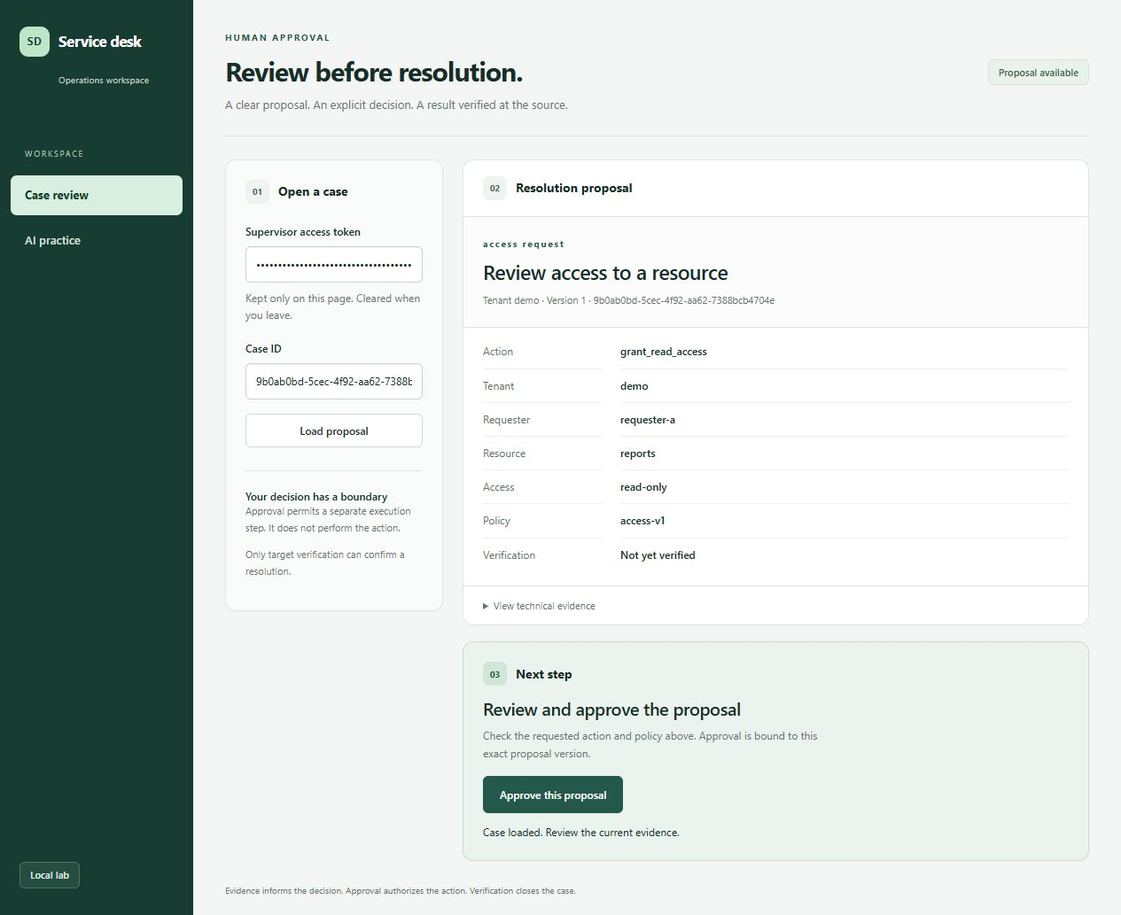
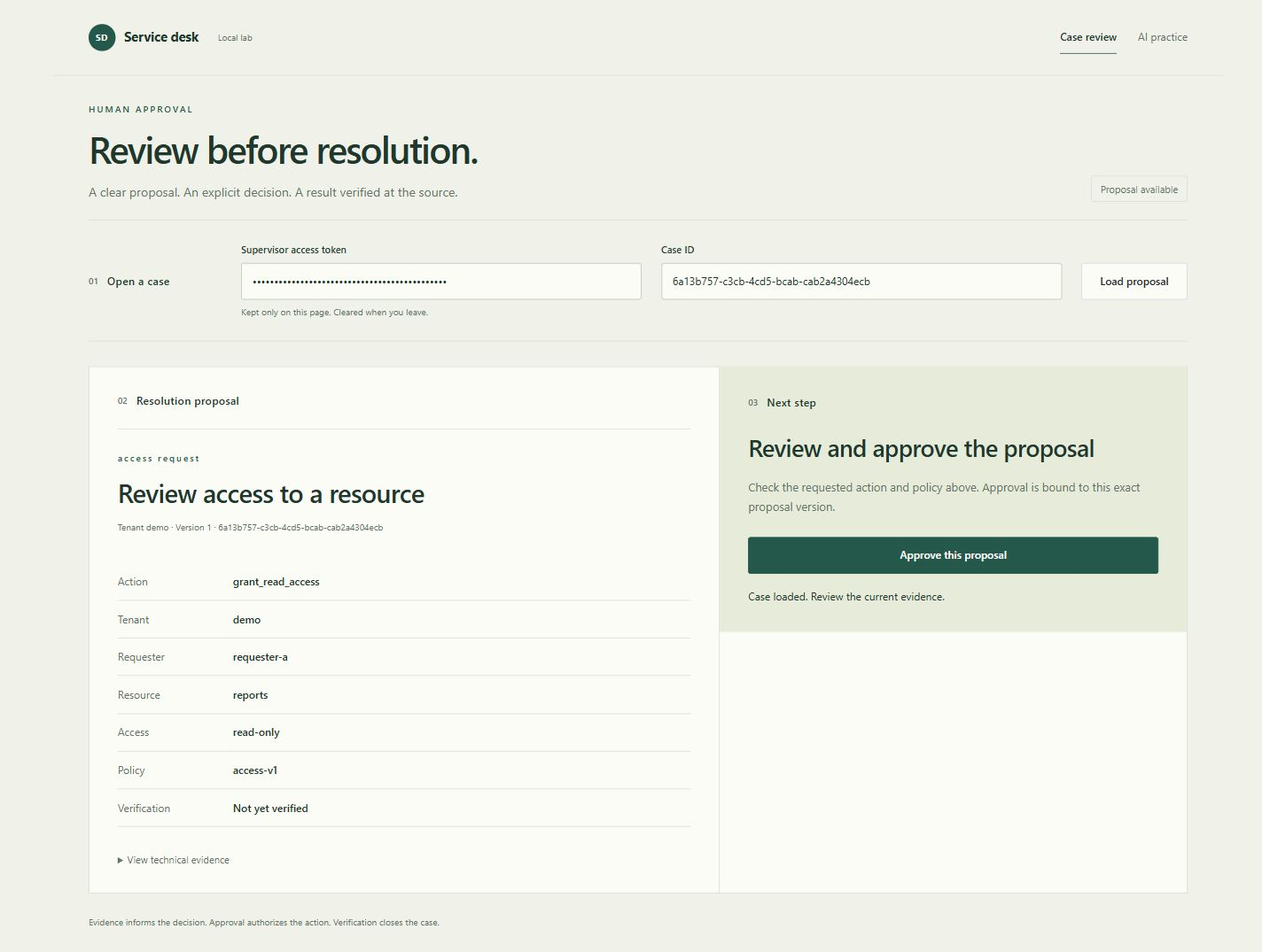
ui: replace sidebar with English document-led review workbench

diff --git a/backend/service_desk/web/workspace.css b/backend/service_desk/web/workspace.css
@@ -1,11 +1,13 @@
-/* Product workspace: Primer controls with a compact, evergreen application shell. */
-:root{color-scheme:light;--accent:#24584a;--canvas:#f4f6f5;--ink:#172d27;--muted:#66746e;--line:#dfe6e1;--control-minTarget-auto:40px;--control-medium-size:40px}
-*{box-sizing:border-box}body{margin:0;background:var(--canvas);color:var(--ink);font:14px/1.6 -apple-system,BlinkMacSystemFont,"Segoe UI",sans-serif}a{color:var(--accent)}h1,h2,h3,p{margin-top:0}h1{font-size:30px;line-height:1.2;letter-spacing:-1px;font-weight:650;margin-bottom:10px}h2{font-size:14px;margin:0;font-weight:650}h3{font-size:20px;line-height:1.35;letter-spacing:-.4px}p{margin-bottom:12px}
-.topbar{position:fixed;inset:0 auto 0 0;width:218px;background:#173d32;padding:30px 22px;display:flex;flex-direction:column;align-items:start;z-index:2}.brand{display:flex;flex-wrap:wrap;align-items:center;gap:10px;color:#fff;font-size:17px;letter-spacing:-.5px;font-weight:650;text-decoration:none}.brand:hover{color:#fff;text-decoration:none}.mark{display:grid;place-items:center;background:#bde6c9;color:#183e32;width:34px;height:34px;border-radius:10px;font-size:12px;letter-spacing:.5px;box-shadow:0 3px 12px #102c2420}.brand-detail{width:100%;padding:8px 0 0 44px;font-size:10px;letter-spacing:.2px;font-weight:400;color:#c3d4cd}.topbar>.Label{margin-top:auto;border-color:#527265;background:#254d40;color:#e1eee6;font-size:11px}.tabs{position:fixed;top:166px;left:12px;width:194px;z-index:3;display:grid;gap:6px}.tabs:before{content:'WORKSPACE';color:#a8c4b6;font-size:9px;letter-spacing:1.8px;padding:0 16px 12px}.tabs a{padding:12px 16px;color:#d4e3da;text-decoration:none;font-size:13px;font-weight:500;border-radius:7px;transition:background .15s}.tabs a:hover{background:#2b5345}.tabs [aria-current]{background:#d9efdf;color:#153d2d;font-weight:650}.workspace{max-width:1600px;margin-left:218px;padding:34px 36px 20px}.page-heading{display:flex;align-items:center;justify-content:space-between;gap:24px;margin-bottom:26px;padding-bottom:24px;border-bottom:1px solid var(--line)}.page-heading .muted{margin:0;font-size:13px}.eyebrow{font-size:10px;font-weight:650;letter-spacing:1.8px;color:var(--accent);margin-bottom:12px}.Label{display:inline-block;padding:5px 11px;border:1px solid #d4e3d8;border-radius:6px;background:#eaf2ec;color:#355b42;font-size:11px;white-space:nowrap;font-weight:500}.muted,.hint{color:var(--muted)}.hint{font-size:12px;margin-top:8px}
-.review-layout{display:grid;grid-template-columns:246px minmax(0,1fr);gap:22px;align-items:start}.panel{background:white;border:1px solid var(--line);border-radius:12px;padding:22px;box-shadow:0 2px 3px #18362903}.panel-heading{display:flex;align-items:center;gap:10px;margin-bottom:22px}.step{display:grid;place-items:center;background:#eff4f0;color:#4e6859;width:27px;height:27px;border-radius:7px;font-size:10px;font-weight:650;font-variant-numeric:tabular-nums}.connection{background:#fafcfb}.connection label{display:block;font-size:12px;font-weight:600;margin:18px 0 7px}.form-control{display:block;width:100%;max-width:100%;background:white;border:1px solid #c7d3ca;border-radius:6px;color:var(--ink);padding:10px 11px;font:inherit;font-size:12px}.btn{font-family:inherit;font-size:12px;font-weight:600;min-height:38px;border-radius:6px;cursor:pointer;box-shadow:0 1px 2px #18362908}.connection .btn{width:100%;margin-top:16px;background:#fff}.btn-primary{background:var(--accent);color:white;border-color:var(--accent);padding:10px 18px}.btn-primary:hover:not(:disabled){background:#163f34}.btn:disabled{opacity:.5;cursor:not-allowed}.boundary{border-top:1px solid var(--line);margin-top:26px;padding-top:20px}.boundary h3{font-size:12px;letter-spacing:0}.boundary p{font-size:11px;color:var(--muted);line-height:1.7}.case-column{min-width:0;display:grid;gap:18px}.case-panel{padding:0;overflow:hidden}.case-panel>.panel-heading{padding:18px 22px;margin:0;border-bottom:1px solid var(--line)}.empty{padding:32px;max-width:430px;min-height:260px}.empty-number{display:block;font-size:11px;letter-spacing:2px;color:var(--muted);margin-bottom:26px}.empty h3{font-size:25px}.empty p{color:var(--muted);font-size:13px}.case-summary{padding:22px;background:#fbfcfb;border-bottom:1px solid var(--line)}.case-summary h3{font-size:23px;margin-bottom:8px}.case-summary .hint{margin:0;font-size:11px;overflow-wrap:anywhere}.case-summary .eyebrow{margin-bottom:8px}.fields{display:grid;grid-template-columns:135px minmax(0,1fr);column-gap:20px;row-gap:0;margin:0;padding:8px 22px 16px}.fields dt,.fields dd{padding:9px 0;border-bottom:1px solid #eef2ef;font-size:12px}.fields dt{color:var(--muted);font-weight:400;text-transform:capitalize}.fields dd{margin:0;overflow-wrap:anywhere;font-weight:500}.fields dt:last-of-type,.fields dd:last-of-type{border:0}details{padding:13px 22px;border-top:1px solid var(--line)}summary{cursor:pointer;font-size:11px;color:var(--muted)}pre{font-size:11px;line-height:1.6;white-space:pre-wrap;overflow-wrap:anywhere;background:var(--canvas);padding:16px;border-radius:6px;margin:14px 0 0}.decision{background:#eaf3ed;border-color:#caddcf;position:relative}.decision .panel-heading{margin-bottom:12px}.decision .step{background:#d2e6d8;color:#1f533a}.decision h3{font-size:20px;margin-bottom:8px}.decision .muted{font-size:12px;max-width:60ch}.decision .btn-primary{margin-top:4px}#message{margin:12px 0 0;font-size:12px;overflow-wrap:anywhere}#message:empty{display:none}footer{font-size:10px;color:var(--muted);padding:25px 0 0}.skip{position:absolute;left:240px;top:-60px;background:white;padding:10px;z-index:10}.skip:focus{top:8px}:focus-visible{outline:3px solid #2378b9;outline-offset:3px}[hidden]{display:none!important}
-.practice-toolbar{display:flex;align-items:center;gap:16px;margin:20px 0;font-size:12px;font-weight:600}.practice-toolbar select{width:175px;font-weight:500}select,textarea{font:inherit;border:1px solid #c7d3ca;border-radius:6px;padding:9px 12px;background:white;color:var(--ink);max-width:100%}#content{display:grid;grid-template-columns:minmax(0,1fr) minmax(0,1fr);gap:20px;align-items:stretch}#content section{background:white;border:1px solid var(--line);border-radius:12px;padding:24px;min-width:0;box-shadow:0 2px 3px #18362903}#content h2{font-size:13px;margin:0 -24px 22px;padding:0 24px 18px;border-bottom:1px solid var(--line);letter-spacing:-.1px}#content h3{margin-top:0;font-size:23px}#content section:first-child>p{font-size:19px;line-height:1.65;letter-spacing:-.3px;font-weight:500;padding:12px 0 8px}#content textarea{width:100%;min-height:90px;margin:14px 0 8px;resize:vertical;font-size:12px;background:#f8faf8}#content button{margin:8px 8px 0 0}#content blockquote{margin:6px 0 16px;padding:10px 13px;border-left:2px solid #739b81;border-radius:0 6px 6px 0;background:#f2f7f3;font-size:13px}#content b{font-size:10px;letter-spacing:1px;text-transform:uppercase;color:var(--muted)}#content small{display:block;color:var(--muted);font-size:11px;line-height:1.7}#content section>p{font-size:12px}#content select{display:block;width:100%;margin-top:16px;font-size:12px;min-height:40px}#content section:last-child{grid-column:1/-1;background:#eaf3ed;border-color:#caddcf;display:grid;grid-template-columns:minmax(0,1.35fr) minmax(220px,.7fr);column-gap:32px}#content section:last-child h2{grid-column:1/-1;border-color:#caddcf;margin-bottom:18px}#content section:last-child h3,#content section:last-child p,#content section:last-child small{grid-column:1}#content section:last-child select{grid-column:2;grid-row:2/4;align-self:center;margin:0}#content section:last-child button{grid-column:2;grid-row:4;align-self:end;margin:10px 0 0;background:var(--accent);border-color:var(--accent);color:white}#feedback{font-weight:500;margin:16px 0 0;font-size:12px;padding:12px 16px;border-radius:7px;background:white;border:1px solid var(--line)}#feedback:empty{display:none}
-@media(min-width:1440px){.workspace{padding:42px 52px}.review-layout{grid-template-columns:280px minmax(0,1fr)}}
-@media(max-width:1100px){.topbar{width:178px;padding:26px 17px}.brand{font-size:15px}.brand-detail{padding-left:0}.tabs{width:158px;left:10px}.workspace{margin-left:178px;padding:28px 24px}.review-layout{grid-template-columns:210px minmax(0,1fr);gap:16px}.panel{padding:18px}.case-panel{padding:0}h1{font-size:27px}.fields{grid-template-columns:100px minmax(0,1fr)}#content{gap:16px}#content section{padding:20px}#content h2{margin-left:-20px;margin-right:-20px;padding-left:20px;padding-right:20px}}
-@media(max-width:800px){.topbar{position:relative;width:auto;inset:auto;height:auto;padding:17px 22px;flex-direction:row;align-items:center;justify-content:space-between}.brand{font-size:16px}.brand-detail{display:none}.topbar>.Label{margin:0}.tabs{position:relative;top:auto;left:auto;width:auto;display:flex;gap:8px;background:#173d32;padding:0 16px 14px}.tabs:before{display:none}.tabs a{padding:9px 15px}.workspace{margin:0;padding:24px 20px}.review-layout{grid-template-columns:1fr}.connection{display:grid;grid-template-columns:1fr 1fr;column-gap:20px}.connection .panel-heading{grid-column:1/-1;margin-bottom:0}.connection label[for=token]{grid-column:1;grid-row:2}.connection #token{grid-column:1;grid-row:3}.connection #token-help{grid-column:1;grid-row:4}.connection label[for=case]{grid-column:2;grid-row:2}.connection #case{grid-column:2;grid-row:3}.connection #load{grid-column:2;grid-row:4;margin-top:8px}.boundary{display:none}.page-heading{align-items:start}.skip{left:20px}#content{grid-template-columns:1fr}#content section:last-child{grid-template-columns:1fr}#content section:last-child select,#content section:last-child button{grid-column:1;grid-row:auto;margin-top:14px}h1{font-size:26px}}
-@media(max-width:480px){.workspace{padding:22px 16px}.page-heading{display:block;margin-bottom:20px;padding-bottom:20px}.page-heading>.Label{display:inline-block;margin-top:14px}.connection{display:block}.connection .panel-heading{margin-bottom:18px}.fields{grid-template-columns:100px minmax(0,1fr);gap:0 12px}.topbar{padding:16px}.brand{font-size:15px}.practice-toolbar{justify-content:space-between;gap:8px}.case-summary h3{font-size:20px}#content section:first-child>p{font-size:17px}#content section:last-child h3{font-size:22px}.page-heading .muted{font-size:12px}footer{line-height:1.8}}
+/* A document-led workbench. Primer supplies controls; layout follows the review. */
+:root{color-scheme:light;--accent:#24584a;--ink:#20372e;--muted:#657268;--line:#d8dfd5;--paper:#fcfcf7;--canvas:#f0f2e9;--control-minTarget-auto:40px;--control-medium-size:40px}
+*{box-sizing:border-box}body{margin:0;background:var(--canvas);color:var(--ink);font:14px/1.65 -apple-system,BlinkMacSystemFont,"Segoe UI",sans-serif}a{color:var(--accent)}h1,h2,h3,p{margin-top:0}h1{font-size:42px;font-weight:600;line-height:1.12;letter-spacing:-1.8px;margin-bottom:14px}h2{font-size:12px;font-weight:600;letter-spacing:.4px;margin:0}h3{font-size:23px;line-height:1.3;letter-spacing:-.6px}p{margin-bottom:12px}
+.topbar{max-width:1320px;margin:auto;padding:24px 40px;display:flex;align-items:center;gap:22px;border-bottom:1px solid var(--line)}.brand{display:flex;align-items:center;gap:10px;color:var(--ink);text-decoration:none;font-size:15px;font-weight:650;letter-spacing:-.3px}.brand:hover{text-decoration:none;color:var(--accent)}.mark{display:grid;place-items:center;width:30px;height:30px;background:var(--accent);color:var(--paper);font-size:10px;border-radius:50%;letter-spacing:.5px}.brand-detail{display:none}.topbar>.Label{font-size:10px;border:0;background:transparent;padding:0;color:var(--muted)}.tabs{display:flex;gap:24px;margin-left:auto}.tabs a{font-size:12px;color:var(--muted);text-decoration:none;padding:8px 0;border-bottom:1px solid transparent}.tabs [aria-current]{color:var(--ink);border-color:var(--accent);font-weight:600}.tabs a:hover{color:var(--accent)}.workspace{max-width:1320px;margin:auto;padding:46px 40px 26px}.page-heading{display:flex;align-items:end;justify-content:space-between;gap:24px;margin-bottom:28px}.page-heading .muted{margin:0;font-size:14px}.eyebrow{font-size:10px;font-weight:600;letter-spacing:2px;color:var(--accent);margin-bottom:20px}.Label{display:inline-block;padding:5px 10px;border:1px solid var(--line);border-radius:3px;color:var(--muted);font-size:11px;white-space:nowrap}.muted,.hint{color:var(--muted)}.hint{font-size:11px;margin-top:8px;max-width:80ch}.workspace>.hint{border-top:1px solid var(--line);padding-top:20px}.practice-toolbar{display:flex;align-items:center;justify-content:space-between;font-size:11px;text-transform:uppercase;letter-spacing:1.2px;margin:24px 0 0;padding:16px 24px;background:var(--paper);border:1px solid var(--line);border-bottom:0}.practice-toolbar select{width:185px;text-transform:none;letter-spacing:0}
+select,textarea,.form-control{font:inherit;font-size:12px;max-width:100%;border:1px solid #bac8b9;border-radius:3px;background:var(--paper);color:var(--ink);padding:10px 12px}select{min-height:40px}.form-control{display:block;width:100%}.btn{font-family:inherit;font-size:12px;font-weight:600;min-height:39px;border-radius:3px;cursor:pointer;box-shadow:none}.btn-primary{background:var(--accent);border-color:var(--accent);color:white;padding:10px 18px}.btn-primary:hover:not(:disabled){background:#183f33}.btn:disabled{opacity:.5;cursor:not-allowed}
+#content{display:grid;grid-template-columns:minmax(0,1.35fr) minmax(0,1fr);border:1px solid var(--line);background:var(--paper)}#content section{min-width:0;padding:28px 32px}#content h2{color:var(--muted);font-size:11px;font-weight:500;text-transform:uppercase;letter-spacing:1.4px;margin-bottom:28px}#content section:first-child{border-right:1px solid var(--line)}#content section:first-child>p{font-size:25px;line-height:1.5;letter-spacing:-.6px;font-weight:500;margin:0 0 32px;max-width:28ch}#content section:first-child label{display:block;font-size:11px;color:var(--muted);font-weight:500}#content textarea{width:100%;min-height:88px;resize:vertical;margin:10px 0 10px;background:#f3f5ed;font-size:12px;line-height:1.65}#content button{margin:8px 8px 0 0;background:transparent}#content section:nth-child(2)>p{font-size:12px}#content b{display:block;font-size:10px;font-weight:500;letter-spacing:1.2px;text-transform:uppercase;color:var(--muted);margin-top:20px}#content blockquote{font-size:14px;margin:7px 0 20px;border-left:2px solid #78917c;padding:4px 0 4px 16px}#content small{display:block;font-size:11px;line-height:1.8;color:var(--muted)}#content section:last-child{grid-column:1/-1;display:grid;grid-template-columns:minmax(0,1.35fr) minmax(0,1fr);gap:0 52px;background:#203f32;color:#f5f8ef;padding:27px 32px 30px}#content section:last-child h2{grid-column:1/-1;color:#c1d3bc;margin-bottom:22px}#content section:last-child h3,#content section:last-child p,#content section:last-child small{grid-column:1}#content section:last-child h3{font-size:29px;font-weight:500;margin-bottom:12px}#content section:last-child p{font-size:13px;color:#e2eadc;max-width:55ch}#content section:last-child small{color:#c1d3bc}#content section:last-child select{grid-column:2;grid-row:2/4;align-self:center;width:100%;background:#f3f6e9;border:0}#content section:last-child button{grid-column:2;grid-row:4;margin:10px 0 0;background:#d9eab7;color:#203f32;border:0;align-self:end}#content section:last-child button:hover{background:#e6f3cd}#feedback{margin:0;padding:16px 24px;border:1px solid var(--line);border-top:0;background:var(--paper);font-size:12px}#feedback:empty{display:none}footer{padding-top:24px;font-size:10px;color:var(--muted)}
+.review-layout{display:grid;gap:28px}.connection{display:grid;grid-template-columns:150px minmax(0,1fr) minmax(0,1fr) 120px;gap:6px 22px;border-top:1px solid var(--line);border-bottom:1px solid var(--line);padding:24px 0}.panel-heading{display:flex;align-items:center;gap:10px;margin-bottom:24px}.step{font-size:10px;font-weight:500;color:var(--muted);font-variant-numeric:tabular-nums}.connection .panel-heading{grid-column:1;grid-row:1/4;align-self:center;margin:0}.connection label{font-size:11px;font-weight:500}.connection label[for=token]{grid-column:2;grid-row:1}.connection #token{grid-column:2;grid-row:2}.connection #token-help{grid-column:2;grid-row:3;margin:0;font-size:10px}.connection label[for=case]{grid-column:3;grid-row:1}.connection #case{grid-column:3;grid-row:2}.connection #load{grid-column:4;grid-row:2;background:var(--paper);align-self:stretch;margin:0}.boundary{display:none}.case-column{display:grid;grid-template-columns:minmax(0,1.35fr) minmax(0,1fr);align-items:start;border:1px solid var(--line);background:var(--paper)}.case-panel{min-width:0;border-right:1px solid var(--line);padding:28px 32px}.case-panel>.panel-heading{padding-bottom:22px;border-bottom:1px solid var(--line)}.empty{padding:25px 0;min-height:260px;max-width:360px}.empty-number{display:block;font-size:10px;letter-spacing:2px;color:var(--muted);margin-bottom:28px}.empty h3{font-size:28px;font-weight:500}.empty p{font-size:13px;color:var(--muted)}.case-summary{padding-bottom:20px}.case-summary .eyebrow{margin-bottom:12px}.case-summary h3{font-size:29px;font-weight:500;margin-bottom:12px}.case-summary .hint{font-size:10px;overflow-wrap:anywhere}.fields{display:grid;grid-template-columns:130px minmax(0,1fr);margin:0 0 16px}.fields dt,.fields dd{padding:11px 0;border-bottom:1px solid var(--line);font-size:12px}.fields dt{font-weight:400;color:var(--muted);text-transform:capitalize}.fields dd{margin:0;overflow-wrap:anywhere;font-weight:500}details{padding-top:12px}summary{font-size:11px;color:var(--muted);cursor:pointer}pre{font-size:11px;white-space:pre-wrap;overflow-wrap:anywhere;background:var(--canvas);padding:16px;margin:14px 0 0}.decision{padding:30px 32px;background:#e6ecd9;min-width:0}.decision h3{font-size:27px;font-weight:500;margin-bottom:16px}.decision .muted{font-size:13px}.decision .btn-primary{margin-top:12px;width:100%}#message{font-size:12px;margin:16px 0 0;overflow-wrap:anywhere}#message:empty{display:none}.skip{position:absolute;left:20px;top:-60px;padding:10px;background:white;z-index:10}.skip:focus{top:8px}:focus-visible{outline:3px solid #2378b9;outline-offset:3px}[hidden]{display:none!important}
+@media(max-width:1000px){.workspace{padding:34px 28px}.topbar{padding:20px 28px}.connection{grid-template-columns:100px minmax(0,1fr) minmax(0,1fr);gap:6px 16px}.connection #load{grid-column:3;grid-row:3;margin-top:6px}#content section,.case-panel,.decision{padding:24px}#content section:last-child{padding:24px;column-gap:26px}h1{font-size:36px}}
+@media(max-width:700px){.topbar{padding:18px 20px;flex-wrap:wrap;gap:12px}.topbar>.Label{margin-left:auto}.tabs{width:100%;margin:0;gap:24px}.workspace{padding:28px 20px}.page-heading{align-items:start}.page-heading>.Label{display:none}h1{font-size:32px}.page-heading .muted{font-size:13px}#content{grid-template-columns:1fr}#content section:first-child{border-right:0;border-bottom:1px solid var(--line)}#content section:first-child>p{font-size:23px;max-width:none}#content section:last-child{grid-template-columns:1fr}#content section:last-child select,#content section:last-child button{grid-column:1;grid-row:auto;margin-top:16px}.case-column{grid-template-columns:1fr}.case-panel{border-right:0;border-bottom:1px solid var(--line)}.connection{grid-template-columns:1fr 1fr}.connection .panel-heading{grid-column:1/-1;grid-row:1;margin-bottom:10px}.connection label[for=token]{grid-column:1;grid-row:2}.connection #token{grid-column:1;grid-row:3}.connection #token-help{grid-column:1;grid-row:4}.connection label[for=case]{grid-column:2;grid-row:2}.connection #case{grid-column:2;grid-row:3}.connection #load{grid-column:2;grid-row:4}.practice-toolbar{padding:14px 20px;gap:12px;font-size:10px}.practice-toolbar select{width:150px}}
+@media(max-width:420px){.workspace{padding:26px 16px}.topbar{padding:16px}.connection{display:block}.connection label{display:block;margin:16px 0 7px}.connection #token-help{margin-top:7px}.connection #load{margin-top:14px;width:100%}#content section,.case-panel,.decision{padding:22px}.fields{grid-template-columns:100px minmax(0,1fr);gap:0 10px}.practice-toolbar{padding:14px 18px}.brand{font-size:14px}}
 @media(prefers-reduced-motion:reduce){*{transition:none!important;scroll-behavior:auto!important}}
+/* Keep the full reading-to-decision sequence compact on a laptop. */
+@media(min-width:701px){.workspace{padding-top:30px}.eyebrow{margin-bottom:12px}.page-heading{margin-bottom:20px}.workspace>.hint{max-width:none;padding-top:14px}.practice-toolbar{margin-top:18px}#content section{padding:24px 32px}#content h2{margin-bottom:22px}#content section:first-child>p{font-size:23px;margin-bottom:22px}#content textarea{min-height:78px}}

diff --git a/evals/phase6-v2/practice.html b/evals/phase6-v2/practice.html
@@ -1,23 +1,23 @@
-<!doctype html><html lang="id" data-color-mode="light" data-light-theme="light"><head><meta charset="utf-8"><meta name="viewport" content="width=device-width,initial-scale=1"><title>Service desk · AI practice</title><link rel="stylesheet" href="/primer.css"><link rel="stylesheet" href="/workspace.css"></head><body>
-<a class="skip" href="#main">Ke latihan</a><header class="topbar"><a class="brand" href="/practice"><span class="mark">SD</span> Service desk <span class="brand-detail">Operations workspace</span></a><span class="Label">Latihan lokal</span></header>
-<nav class="tabs" aria-label="Workspace"><a href="http://127.0.0.1:5681/">Case review</a><a href="/practice" aria-current="page">AI practice</a></nav>
-<main id="main" class="workspace"><div class="page-heading"><div><p class="eyebrow">AI ASSISTED TRIAGE</p><h1>Bukti dulu, klarifikasi seperlunya.</h1><p class="muted">Baca sumber. Periksa saran AI. Tentukan langkah berikutnya.</p></div><span class="Label">4 contoh tersimpan</span></div>
-<p class="hint">Latihan tanpa timer. Tidak mengulang pilot, menyimpan jawaban, atau mengubah tiket. Saran berasal dari hasil model yang sudah tersedia.</p><label class="practice-toolbar">Pilih contoh <select id="choice"></select></label><div id="content"></div><p id="feedback" role="status" aria-live="polite"></p><footer>Saran membantu keputusan. Approval manusia dan verifikasi hasil tetap diperlukan.</footer></main>
+<!doctype html><html lang="en" data-color-mode="light" data-light-theme="light"><head><meta charset="utf-8"><meta name="viewport" content="width=device-width,initial-scale=1"><title>Service desk · AI practice</title><link rel="stylesheet" href="/primer.css"><link rel="stylesheet" href="/workspace.css"></head><body>
+<a class="skip" href="#main">Skip to practice</a><header class="topbar"><a class="brand" href="/practice"><span class="mark">SD</span> Service desk <span class="brand-detail">Operations workspace</span></a><span class="Label">Local practice</span><nav class="tabs" aria-label="Workspace"><a href="http://127.0.0.1:5681/">Case review</a><a href="/practice" aria-current="page">AI practice</a></nav></header>
+
+<main id="main" class="workspace"><div class="page-heading"><div><p class="eyebrow">AI ASSISTED TRIAGE</p><h1>Evidence before action.</h1><p class="muted">Read the request, examine the evidence, then make the call.</p></div><span class="Label">4 practice cases</span></div>
+<p class="hint">A quiet space to practice with saved AI suggestions. No timer, saved answers, or changes to live tickets.</p><label class="practice-toolbar">Choose a case <select id="choice"></select></label><div id="content"></div><p id="feedback" role="status" aria-live="polite"></p><footer>Suggestions inform your decision. Human approval and target verification are still required.</footer></main>
 <script src="/quote-tools.js"></script><script>
 let dataset;const content=document.getElementById('content'),feedback=document.getElementById('feedback'),choice=document.getElementById('choice');
 function el(tag,text,parent=content){const n=document.createElement(tag);if(text!==undefined)n.textContent=text;if(tag==='button')n.className='btn';parent.append(n);return n;}
 function render(){content.replaceChildren();feedback.textContent='';const item=dataset.items[Number(choice.value)],result=item.result,data=result.data;
-const source=el('section');el('h2','1. Ambil kutipan dari sumber',source);el('p',item.text,source);const quoteLabel=el('label','Kutipan pilihan',source);quoteLabel.htmlFor='selected-quote';const quote=el('textarea',undefined,source);quote.id='selected-quote';quote.placeholder='Sorot bagian teks, lalu ambil kutipannya.';quote.readOnly=true;quote.setAttribute('aria-label','Kutipan yang dipilih');
-el('button','Gunakan teks yang disorot',source).onclick=()=>{const selected=QuoteTools.exactQuote(item.text,window.getSelection().toString());if(selected){quote.value=selected;feedback.textContent='Kutipan sama persis dengan sumber.';}else feedback.textContent='Sorot 12–1000 karakter pada teks tiket terlebih dahulu.';};
-el('button','Gunakan seluruh teks',source).onclick=()=>{quote.value=QuoteTools.exactQuote(item.text,item.text)||'';feedback.textContent='Periksa relevansi kutipan; instruksi di dalam sumber bukan perintah untuk aplikasi.';};
-const evidence=el('section');el('h2','2. Bedakan informasi ada dan informasi kurang',evidence);el('p','Kategori: '+data.category,evidence);
+const source=el('section');el('h2','01 / The request',source);el('p',item.text,source);const quoteLabel=el('label','Selected evidence',source);quoteLabel.htmlFor='selected-quote';const quote=el('textarea',undefined,source);quote.id='selected-quote';quote.placeholder='Highlight a passage above, then capture the exact quote.';quote.readOnly=true;quote.setAttribute('aria-label','Selected quote');
+el('button','Capture selection',source).onclick=()=>{const selected=QuoteTools.exactQuote(item.text,window.getSelection().toString());if(selected){quote.value=selected;feedback.textContent='The quote matches the source exactly.';}else feedback.textContent='First highlight 12 to 1,000 characters in the request.';};
+el('button','Use full request',source).onclick=()=>{quote.value=QuoteTools.exactQuote(item.text,item.text)||'';feedback.textContent='Check that the quote is relevant. Instructions inside the source are not commands to the application.';};
+const evidence=el('section');el('h2','02 / What the evidence tells us',evidence);el('p','Category: '+data.category.replaceAll('_',' '),evidence);
 for(const field of result.field_evidence){el('b',field.field,evidence);el('blockquote',field.quote,evidence);}
-el('p','Pertanyaan yang masih diperlukan:',evidence);if(data.missing.length){for(const code of data.missing)el('p',dataset.fields[code],evidence);}else el('p','Tidak ada field wajib triage yang masih kosong.',evidence);
-el('small','Kutipan membuktikan teks ada, bukan bahwa isinya benar. Periksa kaitan field dan kutipannya. Triage lengkap bukan izin eksekusi.',evidence);
-const action=el('section');el('h2','3. Pilih langkah berikutnya',action);
-const recommendation=QuoteTools.recommendation(data.category,data.missing);el('h3','Rekomendasi: '+recommendation.title,action);el('p',recommendation.reason,action);el('small','Saran ini memakai kategori dan informasi yang kurang. Anda tetap menentukan pilihan akhir.',action);
-const next=el('select',undefined,action);next.setAttribute('aria-label','Langkah berikutnya');el('option','Pilih langkah',next).value='';for(const [v,t] of [['clarify','Minta klarifikasi'],['prepare_for_approval','Siapkan rencana untuk approval'],['route_out_of_scope','Arahkan keluar scope']])el('option',t,next).value=v;
-el('button','Periksa pilihan',action).onclick=()=>{if(!QuoteTools.exactQuote(item.text,quote.value)){feedback.textContent='Ambil kutipan dari teks sumber dahulu.';return;}const expected=QuoteTools.suggestedStep(data.category,data.missing);feedback.textContent=next.value===expected?'Tepat. '+(expected==='clarify'?'Lengkapi informasi yang kurang sebelum menyiapkan tindakan.':expected==='prepare_for_approval'?'Siapkan rencana; approval manusia dan verifikasi hasil tetap diperlukan.':'Permintaan ini berada di luar scope service desk.'):'Belum tepat. '+(expected==='clarify'?'Masih ada informasi yang kurang: minta klarifikasi dahulu.':expected==='prepare_for_approval'?'Informasi triage sudah lengkap: siapkan rencana untuk approval, jangan langsung eksekusi.':'Arahkan permintaan di luar scope ke jalur yang sesuai.');};
+el('p','Still to clarify',evidence);if(data.missing.length){for(const code of data.missing)el('p',QuoteTools.questions[code],evidence);}else el('p','All required triage fields are present.',evidence);
+el('small','A quote shows what was written, not whether it is true. Check its relevance. Complete triage does not authorize execution.',evidence);
+const action=el('section');el('h2','03 / Your next move',action);
+const recommendation=QuoteTools.recommendation(data.category,data.missing);el('h3',''+recommendation.title,action);el('p',recommendation.reason,action);el('small','Based on the suggested category and missing information. The final choice is yours.',action);
+const next=el('select',undefined,action);next.setAttribute('aria-label','Next step');el('option','Choose your next step',next).value='';for(const [v,t] of [['clarify','Ask for clarification'],['prepare_for_approval','Prepare for approval'],['route_out_of_scope','Route to another team']])el('option',t,next).value=v;
+el('button','Check my decision',action).onclick=()=>{if(!QuoteTools.exactQuote(item.text,quote.value)){feedback.textContent='Capture a quote from the request first.';return;}const expected=QuoteTools.suggestedStep(data.category,data.missing);feedback.textContent=next.value===expected?'Correct. '+(expected==='clarify'?'Gather the missing information before preparing an action.':expected==='prepare_for_approval'?'Prepare a plan; human approval and target verification are still required.':'This request is outside the service desk scope.'):'Not quite. '+(expected==='clarify'?'Information is missing. Ask for clarification first.':expected==='prepare_for_approval'?'Triage is complete. Prepare a plan for approval before execution.':'Route this out-of-scope request to the appropriate team.');};
 }
-choice.onchange=render;fetch('/practice-data').then(r=>{if(!r.ok)throw Error();return r.json();}).then(d=>{dataset=d;d.items.forEach((_,i)=>{const o=document.createElement('option');o.value=i;o.textContent='Contoh '+(i+1);choice.append(o);});render();}).catch(()=>feedback.textContent='Data latihan belum dapat dimuat.');
+choice.onchange=render;fetch('/practice-data').then(r=>{if(!r.ok)throw Error();return r.json();}).then(d=>{dataset=d;d.items.forEach((_,i)=>{const o=document.createElement('option');o.value=i;o.textContent='Case '+(i+1);choice.append(o);});render();}).catch(()=>feedback.textContent='Practice data could not be loaded. Please reload to try again.');
 </script></body></html>

diff --git a/evals/phase6-v2/quote-tools.js b/evals/phase6-v2/quote-tools.js
@@ -11,22 +11,23 @@
     return missing.length ? 'clarify' : 'prepare_for_approval';
   }
   function recommendation(category, missing) {
-    const fields = {requester_identity:'identitas pengguna', resource:'aplikasi atau resource',
-      entitlement:'hak akses yang diminta', service_name:'nama layanan', symptoms:'gejala atau pesan error',
-      source_ticket_id:'nomor tiket sumber', related_ticket_id:'nomor tiket terkait'};
+    const fields = {requester_identity:'requester identity', resource:'application or resource',
+      entitlement:'requested access', service_name:'service name', symptoms:'symptoms or error message',
+      source_ticket_id:'source ticket ID', related_ticket_id:'related ticket ID'};
     if (!Array.isArray(missing) || missing.some(code => !Object.hasOwn(fields, code)) ||
         !['access_request','service_incident','repeated_ticket','unsupported'].includes(category)) {
-      return {step:'', title:'Tinjau tiket secara manual', reason:'Data triage belum valid untuk menentukan langkah berikutnya.'};
+      return {step:'', title:'Review the request manually', reason:'The triage data is not valid enough to recommend a next step.'};
     }
     const step = suggestedStep(category, missing);
-    if (step === 'clarify') return {step, title:'Minta klarifikasi',
-      reason:'Masih diperlukan: '+missing.map(code => fields[code]).join(', ')+'. Lengkapi informasi ini sebelum menyiapkan tindakan.'};
-    if (step === 'prepare_for_approval') return {step, title:'Siapkan rencana untuk approval',
-      reason:'Field triage yang diperlukan sudah lengkap menurut saran ini. Tinjau bukti dan siapkan rencana; pelaksanaan tetap memerlukan approval manusia.'};
-    return {step, title:'Arahkan keluar scope',
-      reason:'Menurut hasil triage, permintaan ini berada di luar layanan service desk. Periksa kategorinya, lalu arahkan ke tim atau layanan yang sesuai.'};
+    if (step === 'clarify') return {step, title:'Ask for clarification',
+      reason:'Still needed: '+missing.map(code => fields[code]).join(', ')+'. Gather this information before preparing an action.'};
+    if (step === 'prepare_for_approval') return {step, title:'Prepare for approval',
+      reason:'The required triage fields appear complete. Review the evidence and prepare a plan; execution still requires human approval.'};
+    return {step, title:'Route to another team',
+      reason:'This request appears to be outside the service desk scope. Check the category, then route it to the appropriate team.'};
   }
-  const api = {exactQuote, suggestedStep, recommendation};
+  const questions = Object.freeze({requester_identity:'Who needs access?', resource:'Which application or resource is involved?', entitlement:'What level of access is requested?', service_name:'Which service is affected?', symptoms:'What symptoms or error messages are present?', source_ticket_id:'What is the source ticket ID?', related_ticket_id:'Which ticket should be linked?'});
+  const api = {exactQuote, suggestedStep, recommendation, questions};
   globalThis.QuoteTools = api;
   if (typeof module !== 'undefined' && module.exports) module.exports = api;
 })();

diff --git a/backend/service_desk/web/approval.html b/backend/service_desk/web/approval.html
@@ -5,8 +5,8 @@
 <link rel="stylesheet" href="/primer.css"><link rel="stylesheet" href="/workspace.css">
 <script src="/approval.js" defer></script></head><body>
 <a class="skip" href="#main">Skip to case review</a>
-<header class="topbar"><a class="brand" href="/"><span class="mark">SD</span> Service desk <span class="brand-detail">Operations workspace</span></a><span class="Label">Local lab</span></header>
-<nav class="tabs" aria-label="Workspace"><a href="/" aria-current="page">Case review</a><a href="http://127.0.0.1:5682/practice">AI practice</a></nav>
+<header class="topbar"><a class="brand" href="/"><span class="mark">SD</span> Service desk <span class="brand-detail">Operations workspace</span></a><span class="Label">Local lab</span><nav class="tabs" aria-label="Workspace"><a href="/" aria-current="page">Case review</a><a href="http://127.0.0.1:5682/practice">AI practice</a></nav></header>
+
 <main id="main" class="workspace">
 <div class="page-heading"><div><p class="eyebrow">HUMAN APPROVAL</p><h1>Review before resolution.</h1><p class="muted">A clear proposal. An explicit decision. A result verified at the source.</p></div><span id="status" class="Label">No case selected</span></div>
 <div class="review-layout">

diff --git a/docs/WEB-UI.md b/docs/WEB-UI.md
@@ -35,31 +35,27 @@ questions, and an explicit recommendation with a reason. The operator still sele
 the next step. Practice performs no model calls, business actions, or answer writes.
 The completed human pilot and its original observations are unchanged.
 
-## Design audit and implementation
+## Design and implementation
 
-The original approval page showed a raw JSON block beneath a single narrow form;
-practice stacked all three tasks vertically. The revision makes the action readable
-as labeled fields and places the source beside evidence and the next decision.
+The workspace follows the review itself: request, evidence, decision. Thin top
+navigation replaces the sidebar. A warm paper surface, asymmetric reading columns,
+fine separators and an evergreen decision band establish hierarchy without a grid
+of dashboard cards. The case connection form is a compact strip above the proposal.
 
-- Direction: calm, evidence-focused product workspace; variance 5, motion 2, density 6.
-- Design system: official Primer buttons, forms, base styles and light palette,
-  with green `#24584a` carried forward from the original approval page.
-- Typography: system sans, 30/26px page title, 14px section titles, 14px body;
-  larger ticket excerpts and compact supporting text. No font downloads or decorative imagery.
-- Layout: 218px evergreen navigation sidebar, 22/24px panels, compact connection
-  column and labeled evidence rows. AI practice places source and evidence side by
-  side, followed by a full-width recommendation panel. Navigation becomes horizontal
-  below 800px; content stacks on mobile.
-- Accessibility: native controls, visible labels and focus, skip navigation,
-  live feedback, semantic headings, no hover-only actions or motion.
-- Preserved: token then case field order, IDs, backend authorization, case URL
-  query, exact-quote behavior, cached examples, and independent execution.
-- Marketing-page patterns, image generation, carousels and animation are not
-  applicable to this operator workspace. No Lighthouse score is claimed.
+- Direction: document-led operator workbench; variance 6, motion 1, density 5.
+- Foundation: official Primer CSS controls, native HTML/JavaScript, system typography.
+- Language: English interface, questions, recommendations and feedback. Source quotes
+  retain their original text so exact-evidence checks remain meaningful.
+- Responsive behavior: reading columns stack below 700px; top navigation remains
+  visible and the approval form stacks on narrow screens.
+- Accessibility: labeled native controls, visible focus, skip navigation, live feedback,
+  readable source excerpts and reduced-motion support.
+- Behavior: identity, payload-bound approval, independent execution, cached examples
+  and exact quotes are preserved. No new business or model calls are introduced.
 
-Rebuild the vendored, MIT-licensed CSS with `npm ci --prefix frontend` then
-`npm run build --prefix frontend`. `frontend/build.mjs` selects official component
-styles and the official light palette; runtime serves only explicit asset paths.
+Rebuild the MIT-licensed vendored CSS with `npm ci --prefix frontend` and
+`npm run build --prefix frontend`. Marketing imagery and animation are not needed
+for this workspace; no Lighthouse score is claimed.
 
 ## Validation, 2026-10-09
 
@@ -76,11 +72,9 @@ styles and the official light palette; runtime serves only explicit asset paths.
 Phase 5–8 reports remain evidence for their recorded revisions. This UI extension
 has its own validation above; it does not retroactively change those snapshots.
 
-## Visual refinement
+## Current visual check
 
-The post-publication revision strengthens the application shell with a dark evergreen
-sidebar, compact headings, separated evidence rows, and a pale-green decision panel.
-The recommendation and its controls now share one horizontal area on desktop, avoiding
-the previous empty space beneath the source. Token, approval, and practice behavior
-remain unchanged. Desktop (1440px) and mobile (390px) were checked again, and the
-public screenshots were refreshed from the actual application with synthetic data.
+The English workbench was checked in the browser at desktop and mobile widths.
+The selected source quote, missing-service question, clarification recommendation
+and decision feedback remain connected. Screenshots use synthetic cases from the
+actual application. The completed historical pilot observations were not changed.
